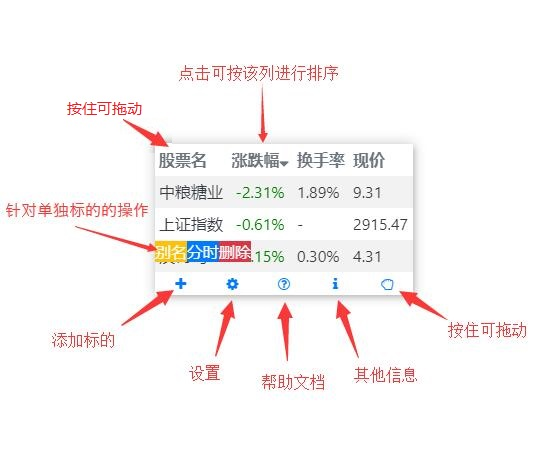
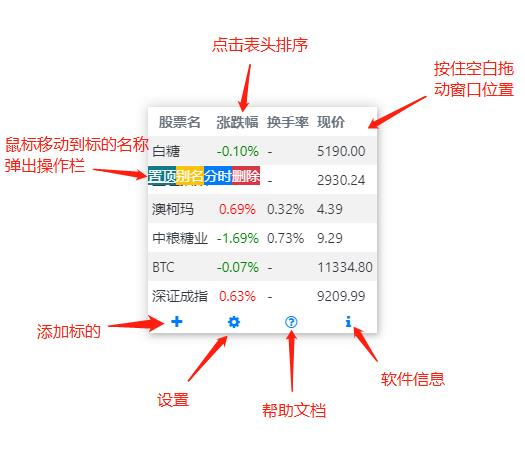
v1.0.3
ready to release.

diff --git a/render/index.html b/render/index.html
@@ -15,15 +15,16 @@
   </head>
   <body>
 
-    <div class="container-fluid pl-0 pr-0" id="board">
+    <div class="container-fluid pl-0 pr-0" id="board" style="-webkit-app-region: drag;">
        <div class="row pl-0 pr-0 pt-0 pb-0 ml-0 mr-0" >
           <div class="col px-0">
-            <!-- <a href="#" onclick="reload();" class="position-absolute" style="top:2px;right:2px;">刷新</a> -->
+            <!-- <a href="#" onclick="reload();" class="position-absolute" style="-webkit-app-region: none;top:2px;right:2px;">刷新</a> -->
+            <span style="font-size:8px;left:2px;top:2px;" id="refresh" class="position-absolute fa fa-circle-o-notch fa-spin"></span>
             <table class="table mb-0 table-borderless table-striped">
               <thead>
                 <tr id="colhead">
-                  <th id="name" class="text-secondary px-1 py-1" scope="col" style="-webkit-app-region: drag;">股票名</th>
-                  <th id="per" class="text-center px-1 py-1" scope="col"><a class="text-secondary" href="#" onclick="sort_col(this);">涨跌幅</a><span class="d-none fa fa-sort-asc"></span><span class="d-none fa fa-sort-desc"></span></th>
+                  <th id="name" class="text-center text-secondary px-1 py-1" scope="col" style="-webkit-app-region: drag;">股票名</th>
+                  <th id="per" class="text-center px-1 py-1" scope="col"><a style="-webkit-app-region: none;" class="text-secondary" href="#" onclick="sort_col(this);">涨跌幅</a><span class="d-none fa fa-sort-asc"></span><span class="d-none fa fa-sort-desc"></span></th>
                 </tr>
               </thead>
               <tbody id="gbrow">
@@ -39,15 +40,14 @@
       </div>
 
         <div id="btns" class="row pl-0 pr-0 pt-0 pb-0 ml-0 mr-0">
-            <button style="width:20%;" id="addnew" type="button" class="btn btn-sm btn-link btn-block pl-0 pr-0 pt-0 pb-0 my-0"><i class="fa fa-plus"></i></button>
+            <button style="width:25%;" id="addnew" type="button" class="btn btn-sm btn-link btn-block pl-0 pr-0 pt-0 pb-0 my-0"><i class="fa fa-plus" style="-webkit-app-region: none;"></i></button>
          
-            <button style="width:20%;" id="config" type="button" class="btn btn-sm btn-link btn-block pl-0 pr-0 pt-0 pb-0 my-0"><i class="fa fa-cog"></i></button>
+            <button style="width:25%;" id="config" type="button" class="btn btn-sm btn-link btn-block pl-0 pr-0 pt-0 pb-0 my-0"><i class="fa fa-cog" style="-webkit-app-region: none;"></i></button>
           
-            <button style="width:20%;" id="help" type="button" class="btn btn-sm btn-link btn-block pl-0 pr-0 pt-0 pb-0 my-0"><span class="fa fa-question-circle-o"></span></button>
+            <button style="width:25%;" id="help" type="button" class="btn btn-sm btn-link btn-block pl-0 pr-0 pt-0 pb-0 my-0"><span class="fa fa-question-circle-o" style="-webkit-app-region: none;"></span></button>
           
-            <button style="width:20%;" id="info" type="button" class="btn btn-sm btn-link btn-block pl-0 pr-0 pt-0 pb-0 my-0"><i class="fa fa-info"></i></button>
+            <button style="width:25%;" id="info" type="button" class="btn btn-sm btn-link btn-block pl-0 pr-0 pt-0 pb-0 my-0"><i class="fa fa-info" style="-webkit-app-region: none;"></i></button>
           
-            <button class="btn btn-sm btn-link btn-block pl-0 pr-0 pt-0 pb-0 my-0" style="-webkit-app-region: drag;width:20%;"><span class="d-none fa fa-hand-grab-o" id="drag" style=""></span><span style="" id="refresh" class="fa fa-circle-o-notch fa-spin"></span></button>
        </div>
        
     </div>

diff --git a/render/index.js b/render/index.js
@@ -169,6 +169,9 @@ function gb_add_row(key,row,conf){
 				td.addClass("text-dark")
 			}
 		}
+		if(k==="name"){
+			td.css("-webkit-app-region","none")
+		}
 		row_all.append(td)
 	}
 
@@ -177,18 +180,19 @@ function gb_add_row(key,row,conf){
 	let bts = $('<div></div>')
 	// bts.addClass("btn-group")
 	bts.addClass("collapse")
-	bts.css("left",0)
+	bts.css("left","1px")
 	bts.css("height",colhead.height())
 	bts.css("-webkit-transition","none")
+	bts.css("-webkit-app-region","none")
 	bts.css("background")
 	bts.addClass("position-absolute")
 
 	let bttext = '<a href="#" class="text-white"></a>'
 
-	// let top_bt = $(bttext).text('置顶')
-	// top_bt.addClass('bg-info')
-	// top_bt.click(key,gb_top_row)
-	// bts.append(top_bt)
+	let top_bt = $(bttext).text('置顶')
+	top_bt.addClass('bg-info')
+	top_bt.click(key,gb_top_row)
+	bts.append(top_bt)
 
 	let alias_bt = $(bttext).text('别名')
 	alias_bt.addClass('bg-warning')
@@ -534,8 +538,7 @@ function set_order_sign(sort){
 }
 
 function request_keys_and_set_timer(emp){
-	console.log("call ===== request_keys_and_set_timer")
-	$("#drag").addClass("d-none")
+	// console.log("call ===== request_keys_and_set_timer")
 	$("#refresh").removeClass("d-none")
 	cm.get_current_config(function(data) {
 
@@ -597,7 +600,6 @@ function request_keys_and_set_timer(emp){
 
 		        ret_window_height()
 
-		        $("#drag").removeClass("d-none")
 				$("#refresh").addClass("d-none")
 
 		        the_current_req = undefined
@@ -638,7 +640,7 @@ function reset_cols(data){
 		}else{
 			let key = c.split("|")[0]
 			let name = c.split("|")[1]
-			let t = '<th id="'+key+'" class="px-1 py-1" scope="col"><a class="text-secondary" href="#" onclick="sort_col(this);">'+name+'</a><span class="d-none fa fa-sort-asc"></span><span class="d-none fa fa-sort-desc"></span></th>'
+			let t = '<th id="'+key+'" class="px-1 py-1" scope="col"><a style="-webkit-app-region: none;" class="text-secondary" href="#" onclick="sort_col(this);">'+name+'</a><span class="d-none fa fa-sort-asc"></span><span class="d-none fa fa-sort-desc"></span></th>'
 			$("#colhead").append($(t))
 		}
 	}
@@ -675,12 +677,11 @@ function reset_model(data){
 		$("#btns").removeClass("d-none")
 		$("#colhead").removeClass("d-none")
 
-		$("#gbrow").css("-webkit-app-region","none")
+		// $("#gbrow").css("-webkit-app-region","none")
 	}else{
 		$("#btns").addClass("d-none")
 		$("#colhead").addClass("d-none")
-
-		$("#gbrow").css("-webkit-app-region","drag")
+		// $("#gbrow").css("-webkit-app-region","drag")
 
 		cm.happend_time("ht_sm",function(t){
 			if(t<=0){

diff --git a/common.js b/common.js
@@ -33,7 +33,7 @@ function get_current_config(func){
 
         if(JSON.stringify(data)=="{}"){
             //default config
-            data.fontsize = "16"   
+            data.fontsize = "14"   
         }
         if(typeof(data.col)=="undefined"){
             data.col = []
@@ -173,4 +173,4 @@ exports.set_config = set_config;
 exports.happend_time = happend_time;
 exports.alert_with_close = alert_with_close;
 exports.base_url = "http://localhost:8080";
-// exports.base_url = "http://static.luckyhu.top:8080";
+exports.base_url = "http://static.luckyhu.top:8080";
